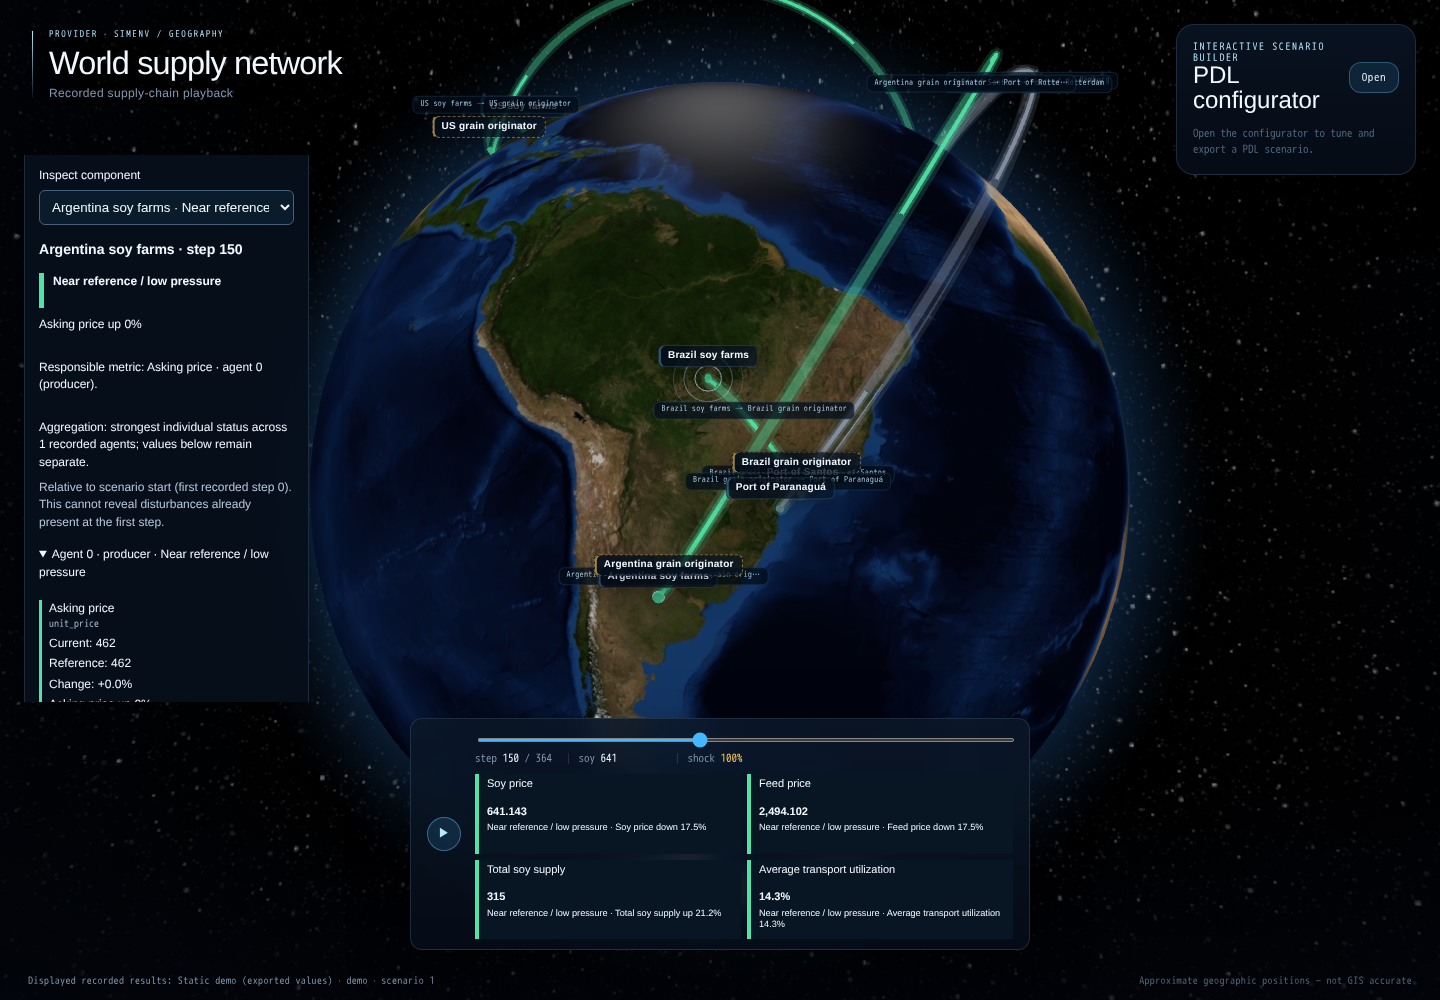
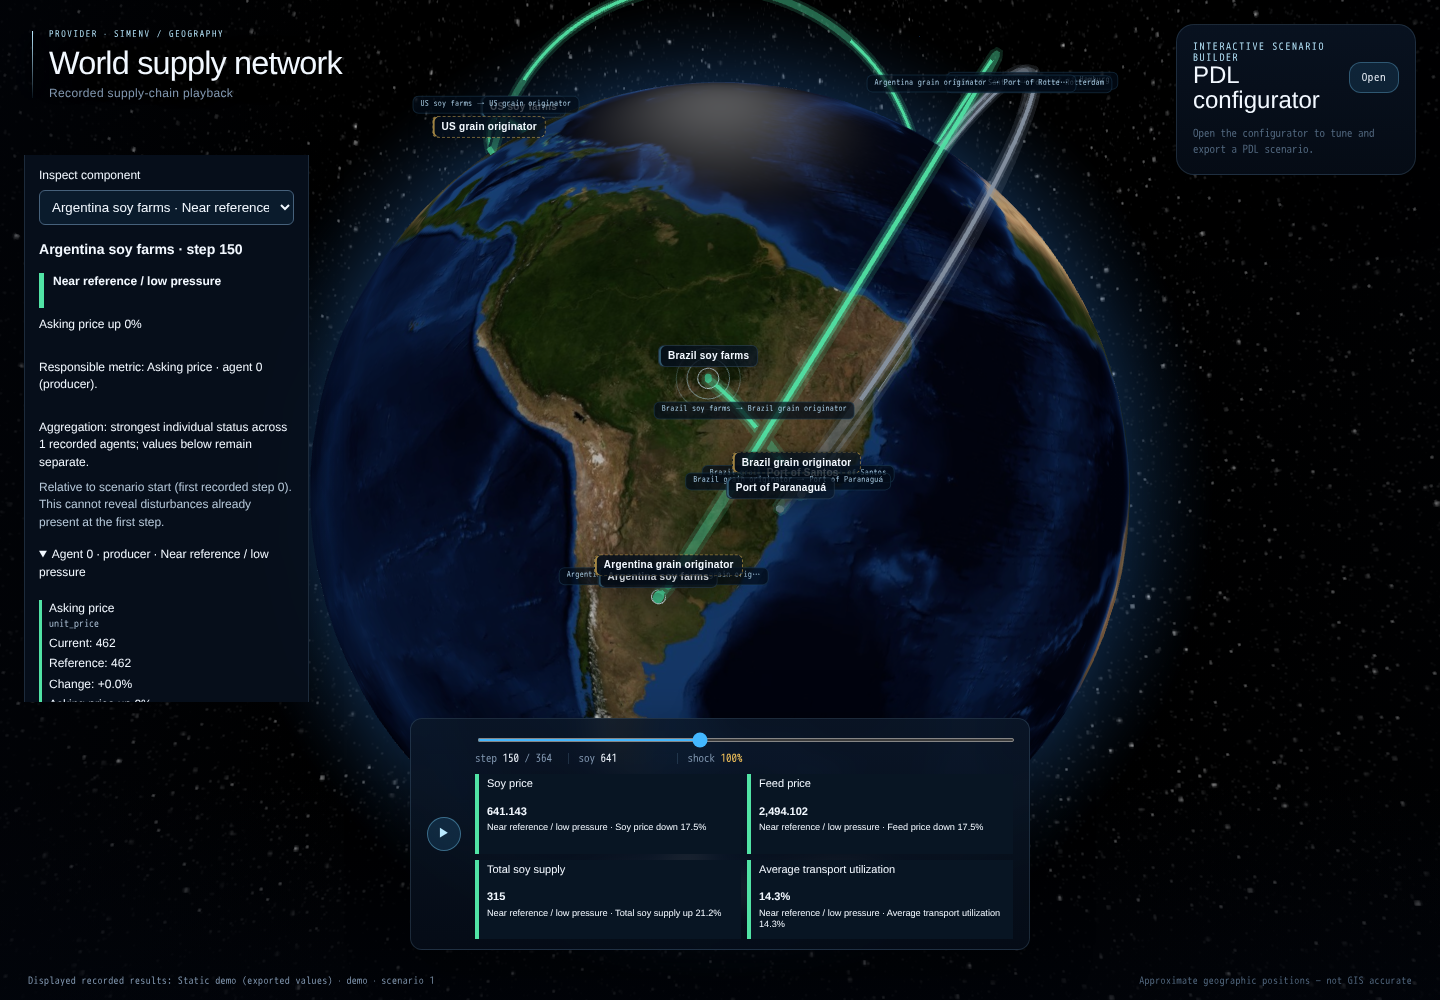
fix: select labels without moving the inspector (#75)

diff --git a/web/src/App.tsx b/web/src/App.tsx
@@ -13,6 +13,7 @@ import { projectFrame } from './playback/frame'
 import { measure } from './playback/measure'
 import ReferenceSelector from './playback/ReferenceSelector'
 import StatusPanel, { StatusLegend } from './playback/StatusPanel'
+import StableInspector from './playback/StableInspector'
 import './app.css'
 import './playback/status.css'
 
@@ -119,8 +120,6 @@ function SelectedPlayback({ source, run, scenario, runs, impactSlot }: { source:
   const [selectedNode, setSelectedNode] = useState('')
   const [impactExpanded, setImpactExpanded] = useState(true)
   const impactControlsId = useId()
-  const inspector = useRef<HTMLDivElement | null>(null)
-  const [revealRequest, setRevealRequest] = useState(0)
   const selectedComponent = selectedNode || playback.scene?.nodes[0]?.id || ''
   const displayScene = useMemo(() => playback.scene ? presentScene(playback.scene) : null, [playback.scene])
   const scene = useMemo(() => displayScene ? resolveScene(displayScene.nodes, displayScene.edges) : null, [displayScene])
@@ -128,15 +127,7 @@ function SelectedPlayback({ source, run, scenario, runs, impactSlot }: { source:
     ? projectFrame(playback.scene, playback.frame, reference.frame, playback.baseline) : null, [playback.scene, playback.frame, playback.baseline, reference.frame])
   const selectFromMap = useCallback((id: string) => {
     setSelectedNode(id); setImpactExpanded(true)
-    setRevealRequest(value => value + 1)
   }, [])
-  useEffect(() => {
-    if (!revealRequest || !impactExpanded || !inspector.current) return
-    const target = inspector.current
-    const sidebar = target.closest<HTMLElement>('.sim-playback-sidebar')
-    const scroller = sidebar && getComputedStyle(sidebar).overflowY === 'auto' ? sidebar : target.closest<HTMLElement>('.sim-app')
-    if (scroller) scroller.scrollTop += target.getBoundingClientRect().top - scroller.getBoundingClientRect().top - 12
-  }, [revealRequest, impactExpanded, impactSlot])
   useEffect(() => {
     for (const item of scene?.unplaced ?? []) console.warn(`[gazetteer] not rendered — ${item.kind} "${item.id}": ${item.reason}`)
   }, [scene])
@@ -160,11 +151,11 @@ function SelectedPlayback({ source, run, scenario, runs, impactSlot }: { source:
         <ReferenceSelector runs={runs} choice={referenceChoice} onChange={setReferenceChoice}
         explanation={reference.explanation} loading={reference.loading} error={reference.error} onRetry={reference.retry} />
       <StatusLegend />
-      <div ref={inspector}>
+      <StableInspector>
       {displayScene && playback.frame && projected && <StatusPanel scene={displayScene} projected={projected}
         period={playback.frame.period} selected={selectedComponent} onSelect={setSelectedNode}
         reference={[reference.explanation, reference.error].filter(Boolean).join(' ')} />}
-      </div>
+      </StableInspector>
       </div>
     </aside>, impactSlot)}
     <div className="sim-playback-notice">

diff --git a/web/src/globe/GlobeView.tsx b/web/src/globe/GlobeView.tsx
@@ -18,6 +18,7 @@ interface Anchor {
   text: string
   kind: LabelKind
   illustrative: boolean
+  nodeId?: string
 }
 
 /** One rendered arc. Each edge expands into a halo/glow/core stack for the glow. */
@@ -120,6 +121,7 @@ export default function GlobeView({
         text: marker.label,
         kind: 'node',
         illustrative: marker.illustrative,
+        nodeId: marker.nodeId,
       })
     }
     for (const edge of edges) {
@@ -183,14 +185,25 @@ export default function GlobeView({
     const anchor = datum as Anchor
     const outer = document.createElement('div')
     outer.className = `sim-anchor sim-anchor--${anchor.kind}`
-    const label = document.createElement('div')
+    const label = anchor.kind === 'node' ? document.createElement('button') : document.createElement('div')
     label.className = `sim-label sim-label--${anchor.kind}${
       anchor.illustrative ? ' sim-label--illustrative' : ''
     }`
     label.textContent = anchor.text
+    const nodeId = anchor.nodeId
+    if (label instanceof HTMLButtonElement && nodeId) {
+      label.type = 'button'
+      label.setAttribute('aria-label', `Select ${anchor.text}`)
+      label.title = anchor.text
+      label.addEventListener('pointerdown', event => event.stopPropagation())
+      label.addEventListener('click', event => {
+        event.stopPropagation()
+        onSelectNode?.(nodeId)
+      })
+    }
     outer.appendChild(label)
     return outer
-  }, [])
+  }, [onSelectNode])
 
   const handleGlobeReady = useCallback(() => {
     const globe = globeRef.current

diff --git a/web/src/playback/StableInspector.tsx b/web/src/playback/StableInspector.tsx
@@ -1,0 +1,28 @@
+import { useLayoutEffect, useRef, useState, type ReactNode } from 'react'
+
+/** Keep selection changes from shrinking the scroll range under the reader. */
+export default function StableInspector({ children }: { children: ReactNode }) {
+  const content = useRef<HTMLDivElement | null>(null)
+  const [retained, setRetained] = useState({ width: 0, height: 0 })
+  useLayoutEffect(() => {
+    const element = content.current
+    if (!element) return
+    const measure = () => {
+      const box = element.getBoundingClientRect()
+      if (box.width <= 0) return // Collapsed panels must not lose their reservation.
+      const width = Math.round(box.width * 100) / 100
+      const naturalHeight = Math.ceil(box.height)
+      setRetained(previous => {
+        const height = width === previous.width ? Math.max(previous.height, naturalHeight) : naturalHeight
+        return width === previous.width && height === previous.height ? previous : { width, height }
+      })
+    }
+    measure()
+    const observer = new ResizeObserver(measure)
+    observer.observe(element)
+    return () => observer.disconnect()
+  }, [])
+  return <div className="sim-stable-inspector" style={{ minHeight: retained.height }}>
+    <div className="sim-stable-inspector-content" ref={content}>{children}</div>
+  </div>
+}

diff --git a/web/src/app.css b/web/src/app.css
@@ -22,6 +22,7 @@ body {
 }
 
 .sim-app {
+  overflow-anchor: none;
   display: grid;
   grid-template-columns: minmax(0, 1fr);
   grid-template-rows: 155px minmax(0, 1fr) auto 50px;
@@ -209,6 +210,7 @@ body {
 }
 /* Recorded playback controls remain available with an empty database. */
 .sim-playback-sidebar {
+  overflow-anchor: none;
   grid-row: 2; position: relative; z-index: 10; left: 24px;
   width: 300px; min-height: 0; overflow-y: auto; margin-bottom: 16px;
   display: grid; align-content: start; gap: 12px; scrollbar-gutter: stable;

diff --git a/web/src/playback/status.css b/web/src/playback/status.css
@@ -18,6 +18,7 @@
 .sim-status-panel-header + div:not([hidden]) { margin-top: 12px; }
 .sim-status-panel summary { cursor: pointer; padding: 7px 0; }
 .sim-component-status { font-variant-numeric: tabular-nums; }
+.sim-stable-inspector-content { display: flow-root; }
 .sim-status-heading { border-left: 5px solid; padding-left: 9px; min-height: 2.9em; }
 .sim-status-reason { height: 2.9em; overflow: hidden; }
 .sim-status-responsible { min-height: 4.35em; }

diff --git a/web/src/globe/labels.css b/web/src/globe/labels.css
@@ -44,6 +44,13 @@
   left: 50%;
   bottom: 10px;
   transform: translateX(-50%);
+  pointer-events: auto;
+  cursor: pointer;
+  text-align: left;
+}
+.sim-label--node:focus-visible {
+  outline: 2px solid var(--sim-color-accent-bright);
+  outline-offset: 3px;
 }
 
 .sim-label--node::after {

diff --git a/docs/playback.md b/docs/playback.md
@@ -117,11 +117,19 @@ Pooled geographic markers share their roster node's assessment. Multi-agent node
 retain the strongest individual metric status, not an average; ties follow stable
 agent identity and metric-registry order.
 
-Clicking an icon opens **Disturbance impact**, brings its component inspector
-into view and updates the dropdown. Clicking an already selected icon also
-reopens/reveals the details. Decorative connection layers remain visible but do
+Clicking an icon or its component label opens **Disturbance impact** and updates
+the dropdown in place. Clicking an already selected component also reopens
+collapsed details, without automatically scrolling or moving focus. Node labels
+are native buttons supporting pointer input and Enter/Space; connection labels
+remain informational. Decorative connection layers remain visible but do
 not intercept marker clicks. Map and dropdown selection use the same owning node
 ID, including pooled components, and preserve playback, reference and run selection.
+
+Selection retains both the sidebar's desktop scroll position and the responsive
+page position. Scroll anchoring is disabled in these containers, and the inspector
+retains its tallest visible content height at the current width so shorter details
+cannot clamp a bottom-scrolled position. Hidden/collapsed measurements do not erase
+that reservation. It resets on an actual width change or new run/scenario.
 
 A shared English presentation scene supplies node/placement/connection labels,
 dropdown options, headings and pooled member names. Exact built-in German names
@@ -238,7 +246,8 @@ for the next run**, separate from the submitted input snapshot.
 - [Collapsed impact sidebar](status-sidebar-collapsed.png).
 - [Static-demo network with restored connections](status-static-network.png) and
   [the same network with impact collapsed](status-static-network-collapsed.png).
-- [Map-icon selection with synchronized English details/dropdown](status-map-selection.png).
+- [Map-label selection with synchronized English details/dropdown](status-map-selection.png).
+  Compare the [reader's position immediately before selection](status-label-selection-before.png).
 
 The after screenshots use explicitly **controlled recorded-response fixtures**,
 not empirical simulation results. Reproduce from `web/` with Vite configured for

diff --git a/web/README.md b/web/README.md
@@ -33,12 +33,18 @@ same details. Details show the strongest metric/agent, individual current and
 reference values, percentage changes, and missing-data explanations. Pooled
 components and multi-agent strongest-status aggregation are explicit.
 
-Click a component icon on the map to select it: the details panel opens and
-reveals the inspector, and **Inspect component** updates to the same selection.
+Click a component icon or its map label to select it: the details panel opens,
+and **Inspect component** updates to the same selection. Component labels are
+keyboard-operable buttons (Enter/Space); connection labels are informational.
 The dropdown remains available for keyboard use; both directions share one
 component selection. Connection graphics do not intercept icon clicks, and
 selecting a component does not reset or pause playback. Split livestock markers
 select their shared pooled component.
+
+The sidebar/page keeps its current scroll position when selection changes;
+only the details content updates. Taller detail content retains its space while
+switching to shorter components, preventing a bottom-scrolled view from jumping.
+The reservation resets for a new run/scenario or a changed inspector width.
 
 Built-in component and placement names are consistently displayed in English
 across the map, connections, dropdown and details, including older recordings
